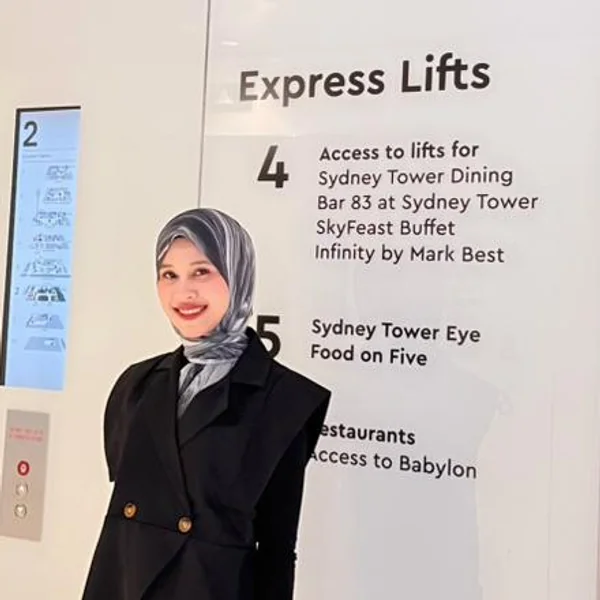
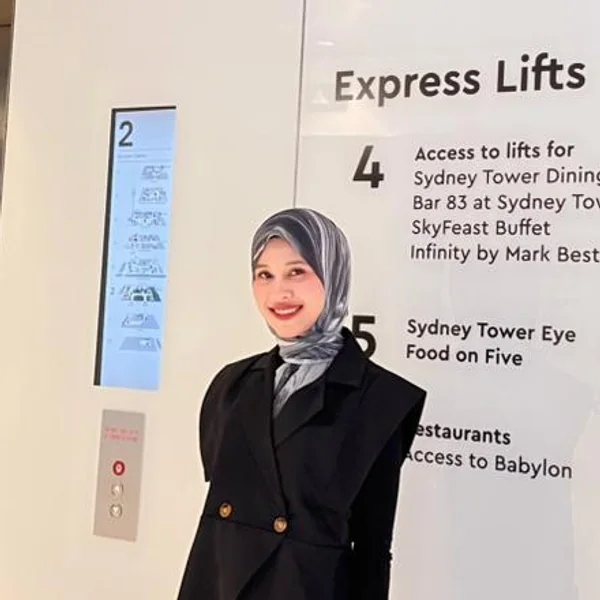
fix(vercel): add safe fallback for supabase client on build and adjust photo crops for Via, Linda, and Siti

diff --git a/src/lib/supabase.ts b/src/lib/supabase.ts
@@ -1,10 +1,10 @@
 import { createClient } from '@supabase/supabase-js';
 
-const supabaseUrl = import.meta.env.PUBLIC_SUPABASE_URL;
-const supabaseAnonKey = import.meta.env.PUBLIC_SUPABASE_ANON_KEY;
+const supabaseUrl = import.meta.env.PUBLIC_SUPABASE_URL || 'https://placeholder.supabase.co';
+const supabaseAnonKey = import.meta.env.PUBLIC_SUPABASE_ANON_KEY || 'placeholder-anon-key';
 
-if (!supabaseUrl || !supabaseAnonKey) {
-  console.warn("Supabase credentials are not defined in the environment variables.");
+if (!import.meta.env.PUBLIC_SUPABASE_URL || !import.meta.env.PUBLIC_SUPABASE_ANON_KEY) {
+  console.warn("Supabase credentials are not defined in the environment variables. Using placeholder client for static build.");
 }
 
-export const supabase = createClient(supabaseUrl || '', supabaseAnonKey || '');
+export const supabase = createClient(supabaseUrl, supabaseAnonKey);
